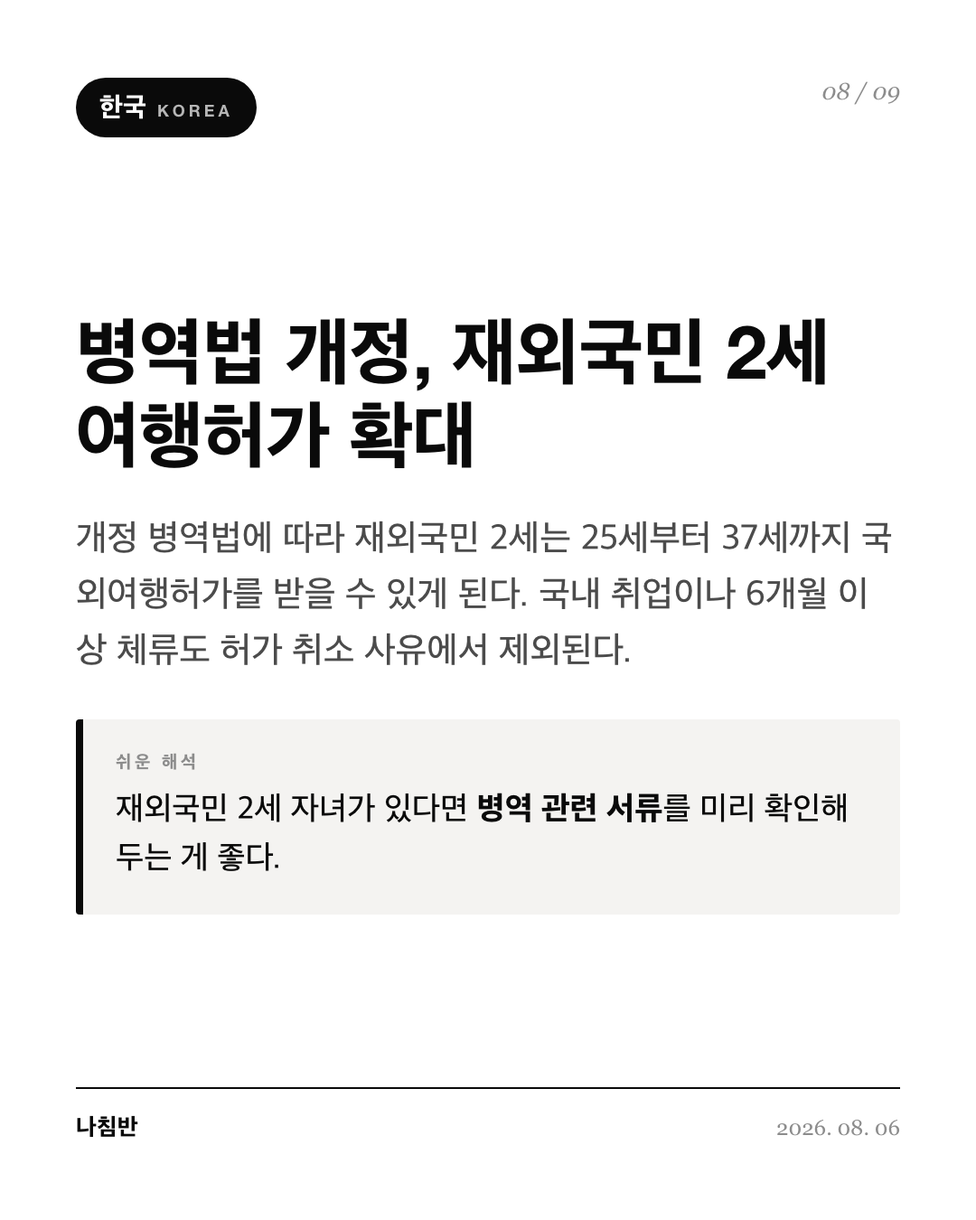
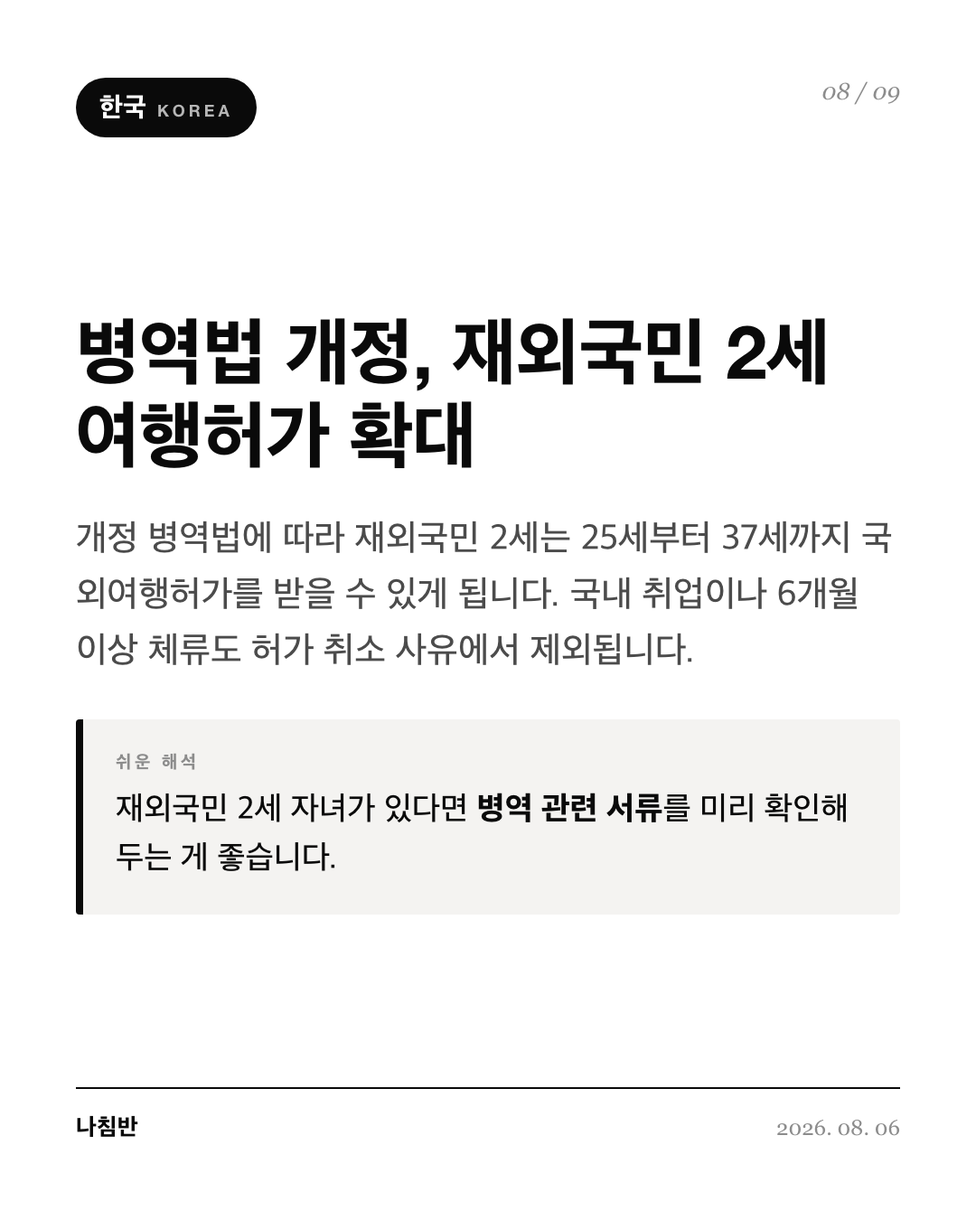
말투 존댓말 통일(9호 변환) + SKILL에 존댓말 규칙·길이 복원(desc 95~135자)
- 기사체(~했다·~된다·~이다) → 존댓말(~했습니다·~됩니다·~입니다) 통일
- 원인: SKILL에 말투 규정 없어 호마다 문체 표류. 길이는 7/31 카드균일화 상한 탓에 축소됨
- 9호는 오늘 오늘분이라 말투만 변환(길이 복원은 다음 호부터)

Changed region(s): [[0.0917, 0.4667, 0.8861, 0.56], [0.2444, 0.6844, 0.3361, 0.7156]]

diff --git a/site/archive/9.html b/site/archive/9.html
@@ -73,8 +73,8 @@
         <div class="thumb g4-4"><span class="ph">Sample</span></div>
         <div class="hot-line">Must read</div>
         <h3>라인강 사상 최저 수위, 화물선 운항 중단</h3>
-        <p class="desc">라인강 마우아우 관측소 수위가 3.03미터로 사상 최저치를 기록했다. 쾰른·카를스루에 항구는 8월 9일까지 운항을 중단했고 화물 적재량도 3분의 1로 제한됐다.</p>
-        <div class="interp"><span class="il">현지 한인에게</span><p>물류 차질로 <b>연료·생필품 가격</b>이 오를 수 있다. 당분간 물가 변동을 확인하는 게 좋다.</p></div>
+        <p class="desc">라인강 마우아우 관측소 수위가 3.03미터로 사상 최저치를 기록했습니다. 쾰른·카를스루에 항구는 8월 9일까지 운항을 중단했고 화물 적재량도 3분의 1로 제한됐습니다.</p>
+        <div class="interp"><span class="il">현지 한인에게</span><p>물류 차질로 <b>연료·생필품 가격</b>이 오를 수 있습니다. 당분간 물가 변동을 확인하는 게 좋습니다.</p></div>
         <div class="m-bot"><span><span class="lb">Source</span>카를스루에 지역지(ka-news)</span><span><span class="lb">Read</span>3 min</span><button class="shr" type="button" aria-label="이 소식 공유하기" title="공유하기" onclick="nbShare(this)" data-h="라인강 사상 최저 수위, 화물선 운항 중단"><svg viewBox="0 0 24 24" fill="none" stroke="currentColor" stroke-width="2" stroke-linecap="round" stroke-linejoin="round"><circle cx="18" cy="5" r="3"/><circle cx="6" cy="12" r="3"/><circle cx="18" cy="19" r="3"/><path d="M8.6 13.5l6.8 4M15.4 6.5l-6.8 4"/></svg></button><a class="readmore" href="https://www.ka-news.de/karlsruhe/karlsruhe-rhein-niedrigwasser-erreicht-historischen-tiefstand-114957248" target="_blank" rel="noopener noreferrer"><span class="arrow">↗</span>read more</a></div>
       </article>
 
@@ -82,8 +82,8 @@
         <div class="m-top"><span class="date">2026.08.06</span><span class="tag">주요뉴스 <em>TOP STORY</em></span></div>
         <div class="thumb g4-5"><span class="ph">Sample</span></div>
         <h3>메르츠 총리 지지율, 1998년 이후 최저</h3>
-        <p class="desc">RTL·ntv 여론조사에서 메르츠 총리 지지율이 20%로 떨어져 1998년 조사 이래 최저치를 기록했다. 불만족 응답은 78%에 달했다.</p>
-        <div class="interp"><span class="il">현지 한인에게</span><p><b>연정 갈등</b>이 계속되며 정국 불안정이 이어지고 있다. 관련 정책 변화를 지켜봐야 한다.</p></div>
+        <p class="desc">RTL·ntv 여론조사에서 메르츠 총리 지지율이 20%로 떨어져 1998년 조사 이래 최저치를 기록했습니다. 불만족 응답은 78%에 달했습니다.</p>
+        <div class="interp"><span class="il">현지 한인에게</span><p><b>연정 갈등</b>이 계속되며 정국 불안정이 이어지고 있습니다. 관련 정책 변화를 지켜봐야 합니다.</p></div>
         <div class="m-bot"><span><span class="lb">Source</span>ad-hoc-news</span><span><span class="lb">Read</span>3 min</span><button class="shr" type="button" aria-label="이 소식 공유하기" title="공유하기" onclick="nbShare(this)" data-h="메르츠 총리 지지율, 1998년 이후 최저"><svg viewBox="0 0 24 24" fill="none" stroke="currentColor" stroke-width="2" stroke-linecap="round" stroke-linejoin="round"><circle cx="18" cy="5" r="3"/><circle cx="6" cy="12" r="3"/><circle cx="18" cy="19" r="3"/><path d="M8.6 13.5l6.8 4M15.4 6.5l-6.8 4"/></svg></button><a class="readmore" href="https://www.ad-hoc-news.de/boerse/news/ueberblick/unzufriedenheit-mit-kanzler-merz-auf-allzeithoch-afd-holt-cdu-csu-in/69097458" target="_blank" rel="noopener noreferrer"><span class="arrow">↗</span>read more</a></div>
       </article>
 
@@ -91,8 +91,8 @@
         <div class="m-top"><span class="date">2026.08.06</span><span class="tag">가상자산 <em>CRYPTO</em></span></div>
         <div class="thumb g10-2"><span class="ph">Sample</span></div>
         <h3>비트코인 비과세 폐지 반대 청원, 청문회 확정</h3>
-        <p class="desc">비트코인 등 가상자산의 1년 보유 후 비과세 혜택 폐지에 반대하는 연방의회 청원이 3만 명 서명을 넘겼다. 의회는 공개 청문회를 열어야 한다.</p>
-        <div class="interp"><span class="il">쉬운 해석 — 법률 해설가</span><p>독일에서 <b>가상자산을 장기 보유</b>하고 있다면 세제 논의를 주시하세요. 아직 확정된 변경은 아니다.</p></div>
+        <p class="desc">비트코인 등 가상자산의 1년 보유 후 비과세 혜택 폐지에 반대하는 연방의회 청원이 3만 명 서명을 넘겼습니다. 의회는 공개 청문회를 열어야 합니다.</p>
+        <div class="interp"><span class="il">쉬운 해석 — 법률 해설가</span><p>독일에서 <b>가상자산을 장기 보유</b>하고 있다면 세제 논의를 주시하세요. 아직 확정된 변경은 아닙니다.</p></div>
         <div class="m-bot"><span><span class="lb">Source</span>Handelsblatt</span><span><span class="lb">Read</span>3 min</span><button class="shr" type="button" aria-label="이 소식 공유하기" title="공유하기" onclick="nbShare(this)" data-h="비트코인 비과세 폐지 반대 청원, 청문회 확정"><svg viewBox="0 0 24 24" fill="none" stroke="currentColor" stroke-width="2" stroke-linecap="round" stroke-linejoin="round"><circle cx="18" cy="5" r="3"/><circle cx="6" cy="12" r="3"/><circle cx="18" cy="19" r="3"/><path d="M8.6 13.5l6.8 4M15.4 6.5l-6.8 4"/></svg></button><a class="readmore" href="https://www.handelsblatt.com/technik/it-internet/umstrittene-haltefrist-bundestags-petition-gegen-krypto-steuerplaene-erfolgreich/100245373.html" target="_blank" rel="noopener noreferrer"><span class="arrow">↗</span>read more</a></div>
       </article>
 
@@ -100,8 +100,8 @@
         <div class="m-top"><span class="date">2026.08.06</span><span class="tag">법·제도 <em>POLICY</em></span></div>
         <div class="thumb g4-6"><span class="ph">Sample</span></div>
         <h3>내무장관, 소년법 개정 추진 표명</h3>
-        <p class="desc">도브린트 내무장관이 CSD 테러 이후 소년법 개정을 추진하겠다고 밝혔다. 위험인물에 대한 예방적 구금과 전자발찌 착용 등을 검토 중이다.</p>
-        <div class="interp"><span class="il">쉬운 해석 — 법률 해설가</span><p>아직 <b>법안 발의 전 단계</b>다. 확정되면 다시 안내하겠다.</p></div>
+        <p class="desc">도브린트 내무장관이 CSD 테러 이후 소년법 개정을 추진하겠다고 밝혔습니다. 위험인물에 대한 예방적 구금과 전자발찌 착용 등을 검토 중입니다.</p>
+        <div class="interp"><span class="il">쉬운 해석 — 법률 해설가</span><p>아직 <b>법안 발의 전 단계</b>입니다. 확정되면 다시 안내하겠습니다.</p></div>
         <div class="m-bot"><span><span class="lb">Source</span>it-boltwise</span><span><span class="lb">Read</span>3 min</span><button class="shr" type="button" aria-label="이 소식 공유하기" title="공유하기" onclick="nbShare(this)" data-h="내무장관, 소년법 개정 추진 표명"><svg viewBox="0 0 24 24" fill="none" stroke="currentColor" stroke-width="2" stroke-linecap="round" stroke-linejoin="round"><circle cx="18" cy="5" r="3"/><circle cx="6" cy="12" r="3"/><circle cx="18" cy="19" r="3"/><path d="M8.6 13.5l6.8 4M15.4 6.5l-6.8 4"/></svg></button><a class="readmore" href="https://www.it-boltwise.de/dobrindt-will-jugendstrafrecht-reformieren-praeventivhaft-und-elektronische-fussfesseln.html" target="_blank" rel="noopener noreferrer"><span class="arrow">↗</span>read more</a></div>
       </article>
 
@@ -117,8 +117,8 @@
         <div class="thumb g4-1"><span class="ph">Sample</span></div>
         <div class="hot-line">For expats</div>
         <h3>6월 경상수지 사상 최대, 수출 첫 1000억달러</h3>
-        <p class="desc">한국은행이 발표한 6월 경상수지가 497억3000만달러 흑자로 두 달 연속 역대 최대를 기록했다. 수출도 처음으로 1000억달러를 넘어섰다.</p>
-        <div class="interp"><span class="il">현지 한인에게</span><p><b>반도체 수출 호조</b>가 이끈 결과다. 원화 자산·환율에도 우호적인 신호다.</p></div>
+        <p class="desc">한국은행이 발표한 6월 경상수지가 497억3000만달러 흑자로 두 달 연속 역대 최대를 기록했습니다. 수출도 처음으로 1000억달러를 넘어섰습니다.</p>
+        <div class="interp"><span class="il">현지 한인에게</span><p><b>반도체 수출 호조</b>가 이끈 결과입니다. 원화 자산·환율에도 우호적인 신호입니다.</p></div>
         <div class="m-bot"><span><span class="lb">Source</span>이투데이</span><span><span class="lb">Read</span>3 min</span><button class="shr" type="button" aria-label="이 소식 공유하기" title="공유하기" onclick="nbShare(this)" data-h="6월 경상수지 사상 최대, 수출 첫 1000억달러"><svg viewBox="0 0 24 24" fill="none" stroke="currentColor" stroke-width="2" stroke-linecap="round" stroke-linejoin="round"><circle cx="18" cy="5" r="3"/><circle cx="6" cy="12" r="3"/><circle cx="18" cy="19" r="3"/><path d="M8.6 13.5l6.8 4M15.4 6.5l-6.8 4"/></svg></button><a class="readmore" href="https://www.etoday.co.kr/news/view/2611523" target="_blank" rel="noopener noreferrer"><span class="arrow">↗</span>read more</a></div>
       </article>
 
@@ -126,8 +126,8 @@
         <div class="m-top"><span class="date">2026.08.06</span><span class="tag">국적·병역 <em>CITIZEN</em></span></div>
         <div class="thumb g1-4"><span class="ph">Sample</span></div>
         <h3>병역법 개정, 재외국민 2세 여행허가 확대</h3>
-        <p class="desc">개정 병역법에 따라 재외국민 2세는 25세부터 37세까지 국외여행허가를 받을 수 있게 된다. 국내 취업이나 6개월 이상 체류도 허가 취소 사유에서 제외된다.</p>
-        <div class="interp"><span class="il">쉬운 해석 — 법률 해설가</span><p>재외국민 2세 자녀가 있다면 <b>병역 관련 서류</b>를 미리 확인해두는 게 좋다.</p></div>
+        <p class="desc">개정 병역법에 따라 재외국민 2세는 25세부터 37세까지 국외여행허가를 받을 수 있게 됩니다. 국내 취업이나 6개월 이상 체류도 허가 취소 사유에서 제외됩니다.</p>
+        <div class="interp"><span class="il">쉬운 해석 — 법률 해설가</span><p>재외국민 2세 자녀가 있다면 <b>병역 관련 서류</b>를 미리 확인해두는 게 좋습니다.</p></div>
         <div class="m-bot"><span><span class="lb">Source</span>찾기쉬운 생활법령정보</span><span><span class="lb">Read</span>3 min</span><button class="shr" type="button" aria-label="이 소식 공유하기" title="공유하기" onclick="nbShare(this)" data-h="병역법 개정, 재외국민 2세 여행허가 확대"><svg viewBox="0 0 24 24" fill="none" stroke="currentColor" stroke-width="2" stroke-linecap="round" stroke-linejoin="round"><circle cx="18" cy="5" r="3"/><circle cx="6" cy="12" r="3"/><circle cx="18" cy="19" r="3"/><path d="M8.6 13.5l6.8 4M15.4 6.5l-6.8 4"/></svg></button><a class="readmore" href="https://www.easylaw.go.kr/CSP/CnpClsMain.laf?csmSeq=1698&ccfNo=4&cciNo=1&cnpClsNo=1" target="_blank" rel="noopener noreferrer"><span class="arrow">↗</span>read more</a></div>
       </article>
 
@@ -135,7 +135,7 @@
         <div class="m-top"><span class="date">2026.08.06</span><span class="tag">생활 <em>LIFE</em></span></div>
         <div class="thumb g5-2"><span class="ph">Sample</span></div>
         <h3>폭염중대경보 확대, 광양까지 포함</h3>
-        <p class="desc">서울 등 수도권과 전남 광양에 폭염중대경보가 발효돼 낮 최고기온이 39도에 달했다. 필수 업무 외 야외활동은 중단이 권고된다.</p>
+        <p class="desc">서울 등 수도권과 전남 광양에 폭염중대경보가 발효돼 낮 최고기온이 39도에 달했습니다. 필수 업무 외 야외활동은 중단이 권고됩니다.</p>
         <div class="interp"><span class="il">쉬운 해석 — 법률 해설가</span><p>귀국 예정이라면 <b>폭염 대비용품</b>을 챙기고 야외 일정을 조정하세요.</p></div>
         <div class="m-bot"><span><span class="lb">Source</span>파이낸셜뉴스</span><span><span class="lb">Read</span>3 min</span><button class="shr" type="button" aria-label="이 소식 공유하기" title="공유하기" onclick="nbShare(this)" data-h="폭염중대경보 확대, 광양까지 포함"><svg viewBox="0 0 24 24" fill="none" stroke="currentColor" stroke-width="2" stroke-linecap="round" stroke-linejoin="round"><circle cx="18" cy="5" r="3"/><circle cx="6" cy="12" r="3"/><circle cx="18" cy="19" r="3"/><path d="M8.6 13.5l6.8 4M15.4 6.5l-6.8 4"/></svg></button><a class="readmore" href="https://www.fnnews.com/news/202608060630492824" target="_blank" rel="noopener noreferrer"><span class="arrow">↗</span>read more</a></div>
       </article>
@@ -152,8 +152,8 @@
         <div class="thumb g4-2"><span class="ph">Sample</span></div>
         <div class="hot-line">Must read</div>
         <h3>AI법 투명성 규정 시행, 챗봇 표시 의무화</h3>
-        <p class="desc">8월 2일부터 EU AI법의 투명성 규정이 시행됐다. 챗봇은 AI임을 밝혀야 하고 딥페이크·AI 생성물에는 표시를 달아야 한다.</p>
-        <div class="interp"><span class="il">현지 한인에게</span><p>EU 거주자라면 <b>AI 챗봇·이미지</b> 이용 시 표시 여부를 확인할 수 있다.</p></div>
+        <p class="desc">8월 2일부터 EU AI법의 투명성 규정이 시행됐습니다. 챗봇은 AI임을 밝혀야 하고 딥페이크·AI 생성물에는 표시를 달아야 합니다.</p>
+        <div class="interp"><span class="il">현지 한인에게</span><p>EU 거주자라면 <b>AI 챗봇·이미지</b> 이용 시 표시 여부를 확인할 수 있습니다.</p></div>
         <div class="m-bot"><span><span class="lb">Source</span>유럽연합 집행위원회</span><span><span class="lb">Read</span>3 min</span><button class="shr" type="button" aria-label="이 소식 공유하기" title="공유하기" onclick="nbShare(this)" data-h="AI법 투명성 규정 시행, 챗봇 표시 의무화"><svg viewBox="0 0 24 24" fill="none" stroke="currentColor" stroke-width="2" stroke-linecap="round" stroke-linejoin="round"><circle cx="18" cy="5" r="3"/><circle cx="6" cy="12" r="3"/><circle cx="18" cy="19" r="3"/><path d="M8.6 13.5l6.8 4M15.4 6.5l-6.8 4"/></svg></button><a class="readmore" href="https://digital-strategy.ec.europa.eu/en/news/commission-starts-enforcing-ai-act-rules-and-new-transparency-requirements-2-august" target="_blank" rel="noopener noreferrer"><span class="arrow">↗</span>read more</a></div>
       </article>
 
@@ -161,8 +161,8 @@
         <div class="m-top"><span class="date">2026.08.06</span><span class="tag">법·제도 <em>POLICY</em></span></div>
         <div class="thumb g4-3"><span class="ph">Sample</span></div>
         <h3>ETIAS 출시 목표 철회, 2027년으로 밀릴 듯</h3>
-        <p class="desc">EU가 올해 4분기로 예고했던 ETIAS 출시 목표를 공식 페이지에서 삭제했다. eu-LISA 9월 이사회 이후 2027년 시행이 유력하다.</p>
-        <div class="interp"><span class="il">쉬운 해석 — 법률 해설가</span><p>이번 겨울까지는 <b>ETIAS 없이</b> 기존 방식으로 유럽 입국이 가능할 전망이다.</p></div>
+        <p class="desc">EU가 올해 4분기로 예고했던 ETIAS 출시 목표를 공식 페이지에서 삭제했습니다. eu-LISA 9월 이사회 이후 2027년 시행이 유력합니다.</p>
+        <div class="interp"><span class="il">쉬운 해석 — 법률 해설가</span><p>이번 겨울까지는 <b>ETIAS 없이</b> 기존 방식으로 유럽 입국이 가능할 전망입니다.</p></div>
         <div class="m-bot"><span><span class="lb">Source</span>etias.com</span><span><span class="lb">Read</span>3 min</span><button class="shr" type="button" aria-label="이 소식 공유하기" title="공유하기" onclick="nbShare(this)" data-h="ETIAS 출시 목표 철회, 2027년으로 밀릴 듯"><svg viewBox="0 0 24 24" fill="none" stroke="currentColor" stroke-width="2" stroke-linecap="round" stroke-linejoin="round"><circle cx="18" cy="5" r="3"/><circle cx="6" cy="12" r="3"/><circle cx="18" cy="19" r="3"/><path d="M8.6 13.5l6.8 4M15.4 6.5l-6.8 4"/></svg></button><a class="readmore" href="https://etias.com/articles/etias-drops-2026-date-as-launch-slips-out-of-view" target="_blank" rel="noopener noreferrer"><span class="arrow">↗</span>read more</a></div>
       </article>
 
@@ -170,8 +170,8 @@
         <div class="m-top"><span class="date">2026.08.06</span><span class="tag">투자 <em>INVEST</em></span></div>
         <div class="thumb g10-3"><span class="ph">Sample</span></div>
         <h3>반도체주 강세, 유럽증시 최고치 행진</h3>
-        <p class="desc">인피니언·ASML 등 반도체주 강세에 힘입어 스톡스600지수가 656.86으로 다시 최고치를 갈아치웠다. 올해 상승률은 10%에 달한다.</p>
-        <div class="interp"><span class="il">쉬운 해석 — 법률 해설가</span><p>유럽 증시에 투자 중이라면 <b>반도체 관련주</b> 비중을 점검해볼 만하다.</p></div>
+        <p class="desc">인피니언·ASML 등 반도체주 강세에 힘입어 스톡스600지수가 656.86으로 다시 최고치를 갈아치웠습니다. 올해 상승률은 10%에 달합니다.</p>
+        <div class="interp"><span class="il">쉬운 해석 — 법률 해설가</span><p>유럽 증시에 투자 중이라면 <b>반도체 관련주</b> 비중을 점검해볼 만합니다.</p></div>
         <div class="m-bot"><span><span class="lb">Source</span>CNBC</span><span><span class="lb">Read</span>3 min</span><button class="shr" type="button" aria-label="이 소식 공유하기" title="공유하기" onclick="nbShare(this)" data-h="반도체주 강세, 유럽증시 최고치 행진"><svg viewBox="0 0 24 24" fill="none" stroke="currentColor" stroke-width="2" stroke-linecap="round" stroke-linejoin="round"><circle cx="18" cy="5" r="3"/><circle cx="6" cy="12" r="3"/><circle cx="18" cy="19" r="3"/><path d="M8.6 13.5l6.8 4M15.4 6.5l-6.8 4"/></svg></button><a class="readmore" href="https://www.cnbc.com/2026/08/05/stoxx-600-record-leaders-laggards-markets.html" target="_blank" rel="noopener noreferrer"><span class="arrow">↗</span>read more</a></div>
       </article>
 
@@ -187,7 +187,7 @@
         <div class="thumb g4-4"><span class="ph">Sample</span></div>
         <div class="hot-line">Must read</div>
         <h3>서부 폭염돔 지속, 사망자 70명</h3>
-        <p class="desc">미국 서부를 뒤덮은 폭염돔으로 7월 이후 사망자가 최소 70명에 달한다. 애리조나·워싱턴 등에서는 산불 위험도 함께 커지고 있다.</p>
+        <p class="desc">미국 서부를 뒤덮은 폭염돔으로 7월 이후 사망자가 최소 70명에 달합니다. 애리조나·워싱턴 등에서는 산불 위험도 함께 커지고 있습니다.</p>
         <div class="interp"><span class="il">현지 한인에게</span><p>서부 지역 방문 예정이라면 <b>폭염 경보</b>와 산불 상황을 미리 확인하세요.</p></div>
         <div class="m-bot"><span><span class="lb">Source</span>Washington Post</span><span><span class="lb">Read</span>3 min</span><button class="shr" type="button" aria-label="이 소식 공유하기" title="공유하기" onclick="nbShare(this)" data-h="서부 폭염돔 지속, 사망자 70명"><svg viewBox="0 0 24 24" fill="none" stroke="currentColor" stroke-width="2" stroke-linecap="round" stroke-linejoin="round"><circle cx="18" cy="5" r="3"/><circle cx="6" cy="12" r="3"/><circle cx="18" cy="19" r="3"/><path d="M8.6 13.5l6.8 4M15.4 6.5l-6.8 4"/></svg></button><a class="readmore" href="https://www.washingtonpost.com/weather/2026/07/26/this-months-heat-domes-killed-least-70-people-us-post-analysis-finds/" target="_blank" rel="noopener noreferrer"><span class="arrow">↗</span>read more</a></div>
       </article>
@@ -196,8 +196,8 @@
         <div class="m-top"><span class="date">2026.08.06</span><span class="tag">투자 <em>INVEST</em></span></div>
         <div class="thumb g10-4"><span class="ph">Sample</span></div>
         <h3>연준 금리 동결, 이례적 3명 인상 소수의견</h3>
-        <p class="desc">연준이 기준금리를 3.50~3.75%로 5회 연속 동결했다. 신임 워시 의장 체제에서 최다인 3명이 인상 소수의견을 냈다.</p>
-        <div class="interp"><span class="il">쉬운 해석 — 법률 해설가</span><p>달러 예금·송금 계획이 있다면 <b>금리 동향</b>을 계속 지켜보는 게 좋다.</p></div>
+        <p class="desc">연준이 기준금리를 3.50~3.75%로 5회 연속 동결했습니다. 신임 워시 의장 체제에서 최다인 3명이 인상 소수의견을 냈습니다.</p>
+        <div class="interp"><span class="il">쉬운 해석 — 법률 해설가</span><p>달러 예금·송금 계획이 있다면 <b>금리 동향</b>을 계속 지켜보는 게 좋습니다.</p></div>
         <div class="m-bot"><span><span class="lb">Source</span>Bloomberg</span><span><span class="lb">Read</span>3 min</span><button class="shr" type="button" aria-label="이 소식 공유하기" title="공유하기" onclick="nbShare(this)" data-h="연준 금리 동결, 이례적 3명 인상 소수의견"><svg viewBox="0 0 24 24" fill="none" stroke="currentColor" stroke-width="2" stroke-linecap="round" stroke-linejoin="round"><circle cx="18" cy="5" r="3"/><circle cx="6" cy="12" r="3"/><circle cx="18" cy="19" r="3"/><path d="M8.6 13.5l6.8 4M15.4 6.5l-6.8 4"/></svg></button><a class="readmore" href="https://www.bloomberg.com/news/articles/2026-07-29/fed-holds-rates-steady-three-officials-dissent-favoring-a-hike" target="_blank" rel="noopener noreferrer"><span class="arrow">↗</span>read more</a></div>
       </article>
 
@@ -205,7 +205,7 @@
         <div class="m-top"><span class="date">2026.08.06</span><span class="tag">주식 <em>STOCKS</em></span></div>
         <div class="thumb g10-1"><span class="ph">Sample</span></div>
         <h3>스페이스X 락업 해제, 매도 물량 우려</h3>
-        <p class="desc">8월 6일 스페이스X 주식 1010억달러어치가 매도 제한에서 풀린다. 9단계로 나뉜 이번 락업 해제로 최대 9억1150만 주가 시장에 나올 수 있다.</p>
+        <p class="desc">8월 6일 스페이스X 주식 1010억달러어치가 매도 제한에서 풀립니다. 9단계로 나뉜 이번 락업 해제로 최대 9억1150만 주가 시장에 나올 수 있습니다.</p>
         <div class="interp"><span class="il">쉬운 해석 — 법률 해설가</span><p>스페이스X 관련 <b>투자 상품</b>을 보유 중이라면 단기 변동성에 유의하세요.</p></div>
         <div class="m-bot"><span><span class="lb">Source</span>Bloomberg</span><span><span class="lb">Read</span>3 min</span><button class="shr" type="button" aria-label="이 소식 공유하기" title="공유하기" onclick="nbShare(this)" data-h="스페이스X 락업 해제, 매도 물량 우려"><svg viewBox="0 0 24 24" fill="none" stroke="currentColor" stroke-width="2" stroke-linecap="round" stroke-linejoin="round"><circle cx="18" cy="5" r="3"/><circle cx="6" cy="12" r="3"/><circle cx="18" cy="19" r="3"/><path d="M8.6 13.5l6.8 4M15.4 6.5l-6.8 4"/></svg></button><a class="readmore" href="https://www.bloomberg.com/news/articles/2026-08-05/spacex-s-101-billion-unlock-heaps-pressure-on-battered-shares" target="_blank" rel="noopener noreferrer"><span class="arrow">↗</span>read more</a></div>
       </article>
@@ -222,7 +222,7 @@
         <div class="thumb g4-5"><span class="ph">Sample</span></div>
         <div class="hot-line">Must read</div>
         <h3>구마모토 지진 복구 지연, 사망 36명</h3>
-        <p class="desc">구마모토 지진 사망자가 36명으로 늘었고 6만9000여 가구는 여전히 단수 상태다. 신칸센 일부 구간은 8월 내 복구가 어려울 전망이다.</p>
+        <p class="desc">구마모토 지진 사망자가 36명으로 늘었고 6만9000여 가구는 여전히 단수 상태입니다. 신칸센 일부 구간은 8월 내 복구가 어려울 전망입니다.</p>
         <div class="interp"><span class="il">현지 한인에게</span><p>구마모토 방문 예정이라면 <b>교통·상수도</b> 상황을 미리 확인하세요.</p></div>
         <div class="m-bot"><span><span class="lb">Source</span>뉴시스</span><span><span class="lb">Read</span>3 min</span><button class="shr" type="button" aria-label="이 소식 공유하기" title="공유하기" onclick="nbShare(this)" data-h="구마모토 지진 복구 지연, 사망 36명"><svg viewBox="0 0 24 24" fill="none" stroke="currentColor" stroke-width="2" stroke-linecap="round" stroke-linejoin="round"><circle cx="18" cy="5" r="3"/><circle cx="6" cy="12" r="3"/><circle cx="18" cy="19" r="3"/><path d="M8.6 13.5l6.8 4M15.4 6.5l-6.8 4"/></svg></button><a class="readmore" href="https://www.newsis.com/view/NISX20260801_0003732767" target="_blank" rel="noopener noreferrer"><span class="arrow">↗</span>read more</a></div>
       </article>
@@ -231,7 +231,7 @@
         <div class="m-top"><span class="date">2026.08.06</span><span class="tag">여행 <em>TRAVEL</em></span></div>
         <div class="thumb g9-2"><span class="ph">Sample</span></div>
         <h3>스페인 공항 파업 확대, 200만명 영향</h3>
-        <p class="desc">바르셀로나·팔마 공항 지상직 파업이 무기한으로 확대됐다. 9월 말까지 최대 200만 명의 승객이 영향을 받을 수 있다.</p>
+        <p class="desc">바르셀로나·팔마 공항 지상직 파업이 무기한으로 확대됐습니다. 9월 말까지 최대 200만 명의 승객이 영향을 받을 수 있습니다.</p>
         <div class="interp"><span class="il">쉬운 해석 — 법률 해설가</span><p>스페인 여행 계획이 있다면 <b>항공편 변동</b> 여부를 수시로 확인하세요.</p></div>
         <div class="m-bot"><span><span class="lb">Source</span>AirHelp</span><span><span class="lb">Read</span>3 min</span><button class="shr" type="button" aria-label="이 소식 공유하기" title="공유하기" onclick="nbShare(this)" data-h="스페인 공항 파업 확대, 200만명 영향"><svg viewBox="0 0 24 24" fill="none" stroke="currentColor" stroke-width="2" stroke-linecap="round" stroke-linejoin="round"><circle cx="18" cy="5" r="3"/><circle cx="6" cy="12" r="3"/><circle cx="18" cy="19" r="3"/><path d="M8.6 13.5l6.8 4M15.4 6.5l-6.8 4"/></svg></button><a class="readmore" href="https://www.airhelp.com/en/flight-disruptions/spain-ground-handling-strikes-barcelona-palma-30072026/" target="_blank" rel="noopener noreferrer"><span class="arrow">↗</span>read more</a></div>
       </article>
@@ -240,7 +240,7 @@
         <div class="m-top"><span class="date">2026.08.06</span><span class="tag">여행 <em>TRAVEL</em></span></div>
         <div class="thumb g9-3"><span class="ph">Sample</span></div>
         <h3>태풍 9호 바비, 오키나와 10~11일 영향</h3>
-        <p class="desc">태풍 바비가 마리아나 제도를 통과해 서북서진 중이다. 10~11일에는 오키나와 지역에 높은 파도와 너울이 예상된다.</p>
+        <p class="desc">태풍 바비가 마리아나 제도를 통과해 서북서진 중입니다. 10~11일에는 오키나와 지역에 높은 파도와 너울이 예상됩니다.</p>
         <div class="interp"><span class="il">쉬운 해석 — 법률 해설가</span><p>오키나와 등 일본 남부 여행 예정이라면 <b>태풍 경로</b>를 계속 확인하세요.</p></div>
         <div class="m-bot"><span><span class="lb">Source</span>일본기상청 인용보도</span><span><span class="lb">Read</span>3 min</span><button class="shr" type="button" aria-label="이 소식 공유하기" title="공유하기" onclick="nbShare(this)" data-h="태풍 9호 바비, 오키나와 10~11일 영향"><svg viewBox="0 0 24 24" fill="none" stroke="currentColor" stroke-width="2" stroke-linecap="round" stroke-linejoin="round"><circle cx="18" cy="5" r="3"/><circle cx="6" cy="12" r="3"/><circle cx="18" cy="19" r="3"/><path d="M8.6 13.5l6.8 4M15.4 6.5l-6.8 4"/></svg></button><a class="readmore" href="https://www.lecturernews.com/news/articleView.html?idxno=205941" target="_blank" rel="noopener noreferrer"><span class="arrow">↗</span>read more</a></div>
       </article>

diff --git a/site/index.html b/site/index.html
@@ -72,8 +72,8 @@
         <div class="thumb g4-4"><span class="ph">Sample</span></div>
         <div class="hot-line">Must read</div>
         <h3>라인강 사상 최저 수위, 화물선 운항 중단</h3>
-        <p class="desc">라인강 마우아우 관측소 수위가 3.03미터로 사상 최저치를 기록했다. 쾰른·카를스루에 항구는 8월 9일까지 운항을 중단했고 화물 적재량도 3분의 1로 제한됐다.</p>
-        <div class="interp"><span class="il">현지 한인에게</span><p>물류 차질로 <b>연료·생필품 가격</b>이 오를 수 있다. 당분간 물가 변동을 확인하는 게 좋다.</p></div>
+        <p class="desc">라인강 마우아우 관측소 수위가 3.03미터로 사상 최저치를 기록했습니다. 쾰른·카를스루에 항구는 8월 9일까지 운항을 중단했고 화물 적재량도 3분의 1로 제한됐습니다.</p>
+        <div class="interp"><span class="il">현지 한인에게</span><p>물류 차질로 <b>연료·생필품 가격</b>이 오를 수 있습니다. 당분간 물가 변동을 확인하는 게 좋습니다.</p></div>
         <div class="m-bot"><span><span class="lb">Source</span>카를스루에 지역지(ka-news)</span><span><span class="lb">Read</span>3 min</span><button class="shr" type="button" aria-label="이 소식 공유하기" title="공유하기" onclick="nbShare(this)" data-h="라인강 사상 최저 수위, 화물선 운항 중단"><svg viewBox="0 0 24 24" fill="none" stroke="currentColor" stroke-width="2" stroke-linecap="round" stroke-linejoin="round"><circle cx="18" cy="5" r="3"/><circle cx="6" cy="12" r="3"/><circle cx="18" cy="19" r="3"/><path d="M8.6 13.5l6.8 4M15.4 6.5l-6.8 4"/></svg></button><a class="readmore" href="https://www.ka-news.de/karlsruhe/karlsruhe-rhein-niedrigwasser-erreicht-historischen-tiefstand-114957248" target="_blank" rel="noopener noreferrer"><span class="arrow">↗</span>read more</a></div>
       </article>
 
@@ -81,8 +81,8 @@
         <div class="m-top"><span class="date">2026.08.06</span><span class="tag">주요뉴스 <em>TOP STORY</em></span></div>
         <div class="thumb g4-5"><span class="ph">Sample</span></div>
         <h3>메르츠 총리 지지율, 1998년 이후 최저</h3>
-        <p class="desc">RTL·ntv 여론조사에서 메르츠 총리 지지율이 20%로 떨어져 1998년 조사 이래 최저치를 기록했다. 불만족 응답은 78%에 달했다.</p>
-        <div class="interp"><span class="il">현지 한인에게</span><p><b>연정 갈등</b>이 계속되며 정국 불안정이 이어지고 있다. 관련 정책 변화를 지켜봐야 한다.</p></div>
+        <p class="desc">RTL·ntv 여론조사에서 메르츠 총리 지지율이 20%로 떨어져 1998년 조사 이래 최저치를 기록했습니다. 불만족 응답은 78%에 달했습니다.</p>
+        <div class="interp"><span class="il">현지 한인에게</span><p><b>연정 갈등</b>이 계속되며 정국 불안정이 이어지고 있습니다. 관련 정책 변화를 지켜봐야 합니다.</p></div>
         <div class="m-bot"><span><span class="lb">Source</span>ad-hoc-news</span><span><span class="lb">Read</span>3 min</span><button class="shr" type="button" aria-label="이 소식 공유하기" title="공유하기" onclick="nbShare(this)" data-h="메르츠 총리 지지율, 1998년 이후 최저"><svg viewBox="0 0 24 24" fill="none" stroke="currentColor" stroke-width="2" stroke-linecap="round" stroke-linejoin="round"><circle cx="18" cy="5" r="3"/><circle cx="6" cy="12" r="3"/><circle cx="18" cy="19" r="3"/><path d="M8.6 13.5l6.8 4M15.4 6.5l-6.8 4"/></svg></button><a class="readmore" href="https://www.ad-hoc-news.de/boerse/news/ueberblick/unzufriedenheit-mit-kanzler-merz-auf-allzeithoch-afd-holt-cdu-csu-in/69097458" target="_blank" rel="noopener noreferrer"><span class="arrow">↗</span>read more</a></div>
       </article>
 
@@ -90,8 +90,8 @@
         <div class="m-top"><span class="date">2026.08.06</span><span class="tag">가상자산 <em>CRYPTO</em></span></div>
         <div class="thumb g10-2"><span class="ph">Sample</span></div>
         <h3>비트코인 비과세 폐지 반대 청원, 청문회 확정</h3>
-        <p class="desc">비트코인 등 가상자산의 1년 보유 후 비과세 혜택 폐지에 반대하는 연방의회 청원이 3만 명 서명을 넘겼다. 의회는 공개 청문회를 열어야 한다.</p>
-        <div class="interp"><span class="il">쉬운 해석 — 법률 해설가</span><p>독일에서 <b>가상자산을 장기 보유</b>하고 있다면 세제 논의를 주시하세요. 아직 확정된 변경은 아니다.</p></div>
+        <p class="desc">비트코인 등 가상자산의 1년 보유 후 비과세 혜택 폐지에 반대하는 연방의회 청원이 3만 명 서명을 넘겼습니다. 의회는 공개 청문회를 열어야 합니다.</p>
+        <div class="interp"><span class="il">쉬운 해석 — 법률 해설가</span><p>독일에서 <b>가상자산을 장기 보유</b>하고 있다면 세제 논의를 주시하세요. 아직 확정된 변경은 아닙니다.</p></div>
         <div class="m-bot"><span><span class="lb">Source</span>Handelsblatt</span><span><span class="lb">Read</span>3 min</span><button class="shr" type="button" aria-label="이 소식 공유하기" title="공유하기" onclick="nbShare(this)" data-h="비트코인 비과세 폐지 반대 청원, 청문회 확정"><svg viewBox="0 0 24 24" fill="none" stroke="currentColor" stroke-width="2" stroke-linecap="round" stroke-linejoin="round"><circle cx="18" cy="5" r="3"/><circle cx="6" cy="12" r="3"/><circle cx="18" cy="19" r="3"/><path d="M8.6 13.5l6.8 4M15.4 6.5l-6.8 4"/></svg></button><a class="readmore" href="https://www.handelsblatt.com/technik/it-internet/umstrittene-haltefrist-bundestags-petition-gegen-krypto-steuerplaene-erfolgreich/100245373.html" target="_blank" rel="noopener noreferrer"><span class="arrow">↗</span>read more</a></div>
       </article>
 
@@ -99,8 +99,8 @@
         <div class="m-top"><span class="date">2026.08.06</span><span class="tag">법·제도 <em>POLICY</em></span></div>
         <div class="thumb g4-6"><span class="ph">Sample</span></div>
         <h3>내무장관, 소년법 개정 추진 표명</h3>
-        <p class="desc">도브린트 내무장관이 CSD 테러 이후 소년법 개정을 추진하겠다고 밝혔다. 위험인물에 대한 예방적 구금과 전자발찌 착용 등을 검토 중이다.</p>
-        <div class="interp"><span class="il">쉬운 해석 — 법률 해설가</span><p>아직 <b>법안 발의 전 단계</b>다. 확정되면 다시 안내하겠다.</p></div>
+        <p class="desc">도브린트 내무장관이 CSD 테러 이후 소년법 개정을 추진하겠다고 밝혔습니다. 위험인물에 대한 예방적 구금과 전자발찌 착용 등을 검토 중입니다.</p>
+        <div class="interp"><span class="il">쉬운 해석 — 법률 해설가</span><p>아직 <b>법안 발의 전 단계</b>입니다. 확정되면 다시 안내하겠습니다.</p></div>
         <div class="m-bot"><span><span class="lb">Source</span>it-boltwise</span><span><span class="lb">Read</span>3 min</span><button class="shr" type="button" aria-label="이 소식 공유하기" title="공유하기" onclick="nbShare(this)" data-h="내무장관, 소년법 개정 추진 표명"><svg viewBox="0 0 24 24" fill="none" stroke="currentColor" stroke-width="2" stroke-linecap="round" stroke-linejoin="round"><circle cx="18" cy="5" r="3"/><circle cx="6" cy="12" r="3"/><circle cx="18" cy="19" r="3"/><path d="M8.6 13.5l6.8 4M15.4 6.5l-6.8 4"/></svg></button><a class="readmore" href="https://www.it-boltwise.de/dobrindt-will-jugendstrafrecht-reformieren-praeventivhaft-und-elektronische-fussfesseln.html" target="_blank" rel="noopener noreferrer"><span class="arrow">↗</span>read more</a></div>
       </article>
 
@@ -116,8 +116,8 @@
         <div class="thumb g4-1"><span class="ph">Sample</span></div>
         <div class="hot-line">For expats</div>
         <h3>6월 경상수지 사상 최대, 수출 첫 1000억달러</h3>
-        <p class="desc">한국은행이 발표한 6월 경상수지가 497억3000만달러 흑자로 두 달 연속 역대 최대를 기록했다. 수출도 처음으로 1000억달러를 넘어섰다.</p>
-        <div class="interp"><span class="il">현지 한인에게</span><p><b>반도체 수출 호조</b>가 이끈 결과다. 원화 자산·환율에도 우호적인 신호다.</p></div>
+        <p class="desc">한국은행이 발표한 6월 경상수지가 497억3000만달러 흑자로 두 달 연속 역대 최대를 기록했습니다. 수출도 처음으로 1000억달러를 넘어섰습니다.</p>
+        <div class="interp"><span class="il">현지 한인에게</span><p><b>반도체 수출 호조</b>가 이끈 결과입니다. 원화 자산·환율에도 우호적인 신호입니다.</p></div>
         <div class="m-bot"><span><span class="lb">Source</span>이투데이</span><span><span class="lb">Read</span>3 min</span><button class="shr" type="button" aria-label="이 소식 공유하기" title="공유하기" onclick="nbShare(this)" data-h="6월 경상수지 사상 최대, 수출 첫 1000억달러"><svg viewBox="0 0 24 24" fill="none" stroke="currentColor" stroke-width="2" stroke-linecap="round" stroke-linejoin="round"><circle cx="18" cy="5" r="3"/><circle cx="6" cy="12" r="3"/><circle cx="18" cy="19" r="3"/><path d="M8.6 13.5l6.8 4M15.4 6.5l-6.8 4"/></svg></button><a class="readmore" href="https://www.etoday.co.kr/news/view/2611523" target="_blank" rel="noopener noreferrer"><span class="arrow">↗</span>read more</a></div>
       </article>
 
@@ -125,8 +125,8 @@
         <div class="m-top"><span class="date">2026.08.06</span><span class="tag">국적·병역 <em>CITIZEN</em></span></div>
         <div class="thumb g1-4"><span class="ph">Sample</span></div>
         <h3>병역법 개정, 재외국민 2세 여행허가 확대</h3>
-        <p class="desc">개정 병역법에 따라 재외국민 2세는 25세부터 37세까지 국외여행허가를 받을 수 있게 된다. 국내 취업이나 6개월 이상 체류도 허가 취소 사유에서 제외된다.</p>
-        <div class="interp"><span class="il">쉬운 해석 — 법률 해설가</span><p>재외국민 2세 자녀가 있다면 <b>병역 관련 서류</b>를 미리 확인해두는 게 좋다.</p></div>
+        <p class="desc">개정 병역법에 따라 재외국민 2세는 25세부터 37세까지 국외여행허가를 받을 수 있게 됩니다. 국내 취업이나 6개월 이상 체류도 허가 취소 사유에서 제외됩니다.</p>
+        <div class="interp"><span class="il">쉬운 해석 — 법률 해설가</span><p>재외국민 2세 자녀가 있다면 <b>병역 관련 서류</b>를 미리 확인해두는 게 좋습니다.</p></div>
         <div class="m-bot"><span><span class="lb">Source</span>찾기쉬운 생활법령정보</span><span><span class="lb">Read</span>3 min</span><button class="shr" type="button" aria-label="이 소식 공유하기" title="공유하기" onclick="nbShare(this)" data-h="병역법 개정, 재외국민 2세 여행허가 확대"><svg viewBox="0 0 24 24" fill="none" stroke="currentColor" stroke-width="2" stroke-linecap="round" stroke-linejoin="round"><circle cx="18" cy="5" r="3"/><circle cx="6" cy="12" r="3"/><circle cx="18" cy="19" r="3"/><path d="M8.6 13.5l6.8 4M15.4 6.5l-6.8 4"/></svg></button><a class="readmore" href="https://www.easylaw.go.kr/CSP/CnpClsMain.laf?csmSeq=1698&ccfNo=4&cciNo=1&cnpClsNo=1" target="_blank" rel="noopener noreferrer"><span class="arrow">↗</span>read more</a></div>
       </article>
 
@@ -134,7 +134,7 @@
         <div class="m-top"><span class="date">2026.08.06</span><span class="tag">생활 <em>LIFE</em></span></div>
         <div class="thumb g5-2"><span class="ph">Sample</span></div>
         <h3>폭염중대경보 확대, 광양까지 포함</h3>
-        <p class="desc">서울 등 수도권과 전남 광양에 폭염중대경보가 발효돼 낮 최고기온이 39도에 달했다. 필수 업무 외 야외활동은 중단이 권고된다.</p>
+        <p class="desc">서울 등 수도권과 전남 광양에 폭염중대경보가 발효돼 낮 최고기온이 39도에 달했습니다. 필수 업무 외 야외활동은 중단이 권고됩니다.</p>
         <div class="interp"><span class="il">쉬운 해석 — 법률 해설가</span><p>귀국 예정이라면 <b>폭염 대비용품</b>을 챙기고 야외 일정을 조정하세요.</p></div>
         <div class="m-bot"><span><span class="lb">Source</span>파이낸셜뉴스</span><span><span class="lb">Read</span>3 min</span><button class="shr" type="button" aria-label="이 소식 공유하기" title="공유하기" onclick="nbShare(this)" data-h="폭염중대경보 확대, 광양까지 포함"><svg viewBox="0 0 24 24" fill="none" stroke="currentColor" stroke-width="2" stroke-linecap="round" stroke-linejoin="round"><circle cx="18" cy="5" r="3"/><circle cx="6" cy="12" r="3"/><circle cx="18" cy="19" r="3"/><path d="M8.6 13.5l6.8 4M15.4 6.5l-6.8 4"/></svg></button><a class="readmore" href="https://www.fnnews.com/news/202608060630492824" target="_blank" rel="noopener noreferrer"><span class="arrow">↗</span>read more</a></div>
       </article>
@@ -151,8 +151,8 @@
         <div class="thumb g4-2"><span class="ph">Sample</span></div>
         <div class="hot-line">Must read</div>
         <h3>AI법 투명성 규정 시행, 챗봇 표시 의무화</h3>
-        <p class="desc">8월 2일부터 EU AI법의 투명성 규정이 시행됐다. 챗봇은 AI임을 밝혀야 하고 딥페이크·AI 생성물에는 표시를 달아야 한다.</p>
-        <div class="interp"><span class="il">현지 한인에게</span><p>EU 거주자라면 <b>AI 챗봇·이미지</b> 이용 시 표시 여부를 확인할 수 있다.</p></div>
+        <p class="desc">8월 2일부터 EU AI법의 투명성 규정이 시행됐습니다. 챗봇은 AI임을 밝혀야 하고 딥페이크·AI 생성물에는 표시를 달아야 합니다.</p>
+        <div class="interp"><span class="il">현지 한인에게</span><p>EU 거주자라면 <b>AI 챗봇·이미지</b> 이용 시 표시 여부를 확인할 수 있습니다.</p></div>
         <div class="m-bot"><span><span class="lb">Source</span>유럽연합 집행위원회</span><span><span class="lb">Read</span>3 min</span><button class="shr" type="button" aria-label="이 소식 공유하기" title="공유하기" onclick="nbShare(this)" data-h="AI법 투명성 규정 시행, 챗봇 표시 의무화"><svg viewBox="0 0 24 24" fill="none" stroke="currentColor" stroke-width="2" stroke-linecap="round" stroke-linejoin="round"><circle cx="18" cy="5" r="3"/><circle cx="6" cy="12" r="3"/><circle cx="18" cy="19" r="3"/><path d="M8.6 13.5l6.8 4M15.4 6.5l-6.8 4"/></svg></button><a class="readmore" href="https://digital-strategy.ec.europa.eu/en/news/commission-starts-enforcing-ai-act-rules-and-new-transparency-requirements-2-august" target="_blank" rel="noopener noreferrer"><span class="arrow">↗</span>read more</a></div>
       </article>
 
@@ -160,8 +160,8 @@
         <div class="m-top"><span class="date">2026.08.06</span><span class="tag">법·제도 <em>POLICY</em></span></div>
         <div class="thumb g4-3"><span class="ph">Sample</span></div>
         <h3>ETIAS 출시 목표 철회, 2027년으로 밀릴 듯</h3>
-        <p class="desc">EU가 올해 4분기로 예고했던 ETIAS 출시 목표를 공식 페이지에서 삭제했다. eu-LISA 9월 이사회 이후 2027년 시행이 유력하다.</p>
-        <div class="interp"><span class="il">쉬운 해석 — 법률 해설가</span><p>이번 겨울까지는 <b>ETIAS 없이</b> 기존 방식으로 유럽 입국이 가능할 전망이다.</p></div>
+        <p class="desc">EU가 올해 4분기로 예고했던 ETIAS 출시 목표를 공식 페이지에서 삭제했습니다. eu-LISA 9월 이사회 이후 2027년 시행이 유력합니다.</p>
+        <div class="interp"><span class="il">쉬운 해석 — 법률 해설가</span><p>이번 겨울까지는 <b>ETIAS 없이</b> 기존 방식으로 유럽 입국이 가능할 전망입니다.</p></div>
         <div class="m-bot"><span><span class="lb">Source</span>etias.com</span><span><span class="lb">Read</span>3 min</span><button class="shr" type="button" aria-label="이 소식 공유하기" title="공유하기" onclick="nbShare(this)" data-h="ETIAS 출시 목표 철회, 2027년으로 밀릴 듯"><svg viewBox="0 0 24 24" fill="none" stroke="currentColor" stroke-width="2" stroke-linecap="round" stroke-linejoin="round"><circle cx="18" cy="5" r="3"/><circle cx="6" cy="12" r="3"/><circle cx="18" cy="19" r="3"/><path d="M8.6 13.5l6.8 4M15.4 6.5l-6.8 4"/></svg></button><a class="readmore" href="https://etias.com/articles/etias-drops-2026-date-as-launch-slips-out-of-view" target="_blank" rel="noopener noreferrer"><span class="arrow">↗</span>read more</a></div>
       </article>
 
@@ -169,8 +169,8 @@
         <div class="m-top"><span class="date">2026.08.06</span><span class="tag">투자 <em>INVEST</em></span></div>
         <div class="thumb g10-3"><span class="ph">Sample</span></div>
         <h3>반도체주 강세, 유럽증시 최고치 행진</h3>
-        <p class="desc">인피니언·ASML 등 반도체주 강세에 힘입어 스톡스600지수가 656.86으로 다시 최고치를 갈아치웠다. 올해 상승률은 10%에 달한다.</p>
-        <div class="interp"><span class="il">쉬운 해석 — 법률 해설가</span><p>유럽 증시에 투자 중이라면 <b>반도체 관련주</b> 비중을 점검해볼 만하다.</p></div>
+        <p class="desc">인피니언·ASML 등 반도체주 강세에 힘입어 스톡스600지수가 656.86으로 다시 최고치를 갈아치웠습니다. 올해 상승률은 10%에 달합니다.</p>
+        <div class="interp"><span class="il">쉬운 해석 — 법률 해설가</span><p>유럽 증시에 투자 중이라면 <b>반도체 관련주</b> 비중을 점검해볼 만합니다.</p></div>
         <div class="m-bot"><span><span class="lb">Source</span>CNBC</span><span><span class="lb">Read</span>3 min</span><button class="shr" type="button" aria-label="이 소식 공유하기" title="공유하기" onclick="nbShare(this)" data-h="반도체주 강세, 유럽증시 최고치 행진"><svg viewBox="0 0 24 24" fill="none" stroke="currentColor" stroke-width="2" stroke-linecap="round" stroke-linejoin="round"><circle cx="18" cy="5" r="3"/><circle cx="6" cy="12" r="3"/><circle cx="18" cy="19" r="3"/><path d="M8.6 13.5l6.8 4M15.4 6.5l-6.8 4"/></svg></button><a class="readmore" href="https://www.cnbc.com/2026/08/05/stoxx-600-record-leaders-laggards-markets.html" target="_blank" rel="noopener noreferrer"><span class="arrow">↗</span>read more</a></div>
       </article>
 
@@ -186,7 +186,7 @@
         <div class="thumb g4-4"><span class="ph">Sample</span></div>
         <div class="hot-line">Must read</div>
         <h3>서부 폭염돔 지속, 사망자 70명</h3>
-        <p class="desc">미국 서부를 뒤덮은 폭염돔으로 7월 이후 사망자가 최소 70명에 달한다. 애리조나·워싱턴 등에서는 산불 위험도 함께 커지고 있다.</p>
+        <p class="desc">미국 서부를 뒤덮은 폭염돔으로 7월 이후 사망자가 최소 70명에 달합니다. 애리조나·워싱턴 등에서는 산불 위험도 함께 커지고 있습니다.</p>
         <div class="interp"><span class="il">현지 한인에게</span><p>서부 지역 방문 예정이라면 <b>폭염 경보</b>와 산불 상황을 미리 확인하세요.</p></div>
         <div class="m-bot"><span><span class="lb">Source</span>Washington Post</span><span><span class="lb">Read</span>3 min</span><button class="shr" type="button" aria-label="이 소식 공유하기" title="공유하기" onclick="nbShare(this)" data-h="서부 폭염돔 지속, 사망자 70명"><svg viewBox="0 0 24 24" fill="none" stroke="currentColor" stroke-width="2" stroke-linecap="round" stroke-linejoin="round"><circle cx="18" cy="5" r="3"/><circle cx="6" cy="12" r="3"/><circle cx="18" cy="19" r="3"/><path d="M8.6 13.5l6.8 4M15.4 6.5l-6.8 4"/></svg></button><a class="readmore" href="https://www.washingtonpost.com/weather/2026/07/26/this-months-heat-domes-killed-least-70-people-us-post-analysis-finds/" target="_blank" rel="noopener noreferrer"><span class="arrow">↗</span>read more</a></div>
       </article>
@@ -195,8 +195,8 @@
         <div class="m-top"><span class="date">2026.08.06</span><span class="tag">투자 <em>INVEST</em></span></div>
         <div class="thumb g10-4"><span class="ph">Sample</span></div>
         <h3>연준 금리 동결, 이례적 3명 인상 소수의견</h3>
-        <p class="desc">연준이 기준금리를 3.50~3.75%로 5회 연속 동결했다. 신임 워시 의장 체제에서 최다인 3명이 인상 소수의견을 냈다.</p>
-        <div class="interp"><span class="il">쉬운 해석 — 법률 해설가</span><p>달러 예금·송금 계획이 있다면 <b>금리 동향</b>을 계속 지켜보는 게 좋다.</p></div>
+        <p class="desc">연준이 기준금리를 3.50~3.75%로 5회 연속 동결했습니다. 신임 워시 의장 체제에서 최다인 3명이 인상 소수의견을 냈습니다.</p>
+        <div class="interp"><span class="il">쉬운 해석 — 법률 해설가</span><p>달러 예금·송금 계획이 있다면 <b>금리 동향</b>을 계속 지켜보는 게 좋습니다.</p></div>
         <div class="m-bot"><span><span class="lb">Source</span>Bloomberg</span><span><span class="lb">Read</span>3 min</span><button class="shr" type="button" aria-label="이 소식 공유하기" title="공유하기" onclick="nbShare(this)" data-h="연준 금리 동결, 이례적 3명 인상 소수의견"><svg viewBox="0 0 24 24" fill="none" stroke="currentColor" stroke-width="2" stroke-linecap="round" stroke-linejoin="round"><circle cx="18" cy="5" r="3"/><circle cx="6" cy="12" r="3"/><circle cx="18" cy="19" r="3"/><path d="M8.6 13.5l6.8 4M15.4 6.5l-6.8 4"/></svg></button><a class="readmore" href="https://www.bloomberg.com/news/articles/2026-07-29/fed-holds-rates-steady-three-officials-dissent-favoring-a-hike" target="_blank" rel="noopener noreferrer"><span class="arrow">↗</span>read more</a></div>
       </article>
 
@@ -204,7 +204,7 @@
         <div class="m-top"><span class="date">2026.08.06</span><span class="tag">주식 <em>STOCKS</em></span></div>
         <div class="thumb g10-1"><span class="ph">Sample</span></div>
         <h3>스페이스X 락업 해제, 매도 물량 우려</h3>
-        <p class="desc">8월 6일 스페이스X 주식 1010억달러어치가 매도 제한에서 풀린다. 9단계로 나뉜 이번 락업 해제로 최대 9억1150만 주가 시장에 나올 수 있다.</p>
+        <p class="desc">8월 6일 스페이스X 주식 1010억달러어치가 매도 제한에서 풀립니다. 9단계로 나뉜 이번 락업 해제로 최대 9억1150만 주가 시장에 나올 수 있습니다.</p>
         <div class="interp"><span class="il">쉬운 해석 — 법률 해설가</span><p>스페이스X 관련 <b>투자 상품</b>을 보유 중이라면 단기 변동성에 유의하세요.</p></div>
         <div class="m-bot"><span><span class="lb">Source</span>Bloomberg</span><span><span class="lb">Read</span>3 min</span><button class="shr" type="button" aria-label="이 소식 공유하기" title="공유하기" onclick="nbShare(this)" data-h="스페이스X 락업 해제, 매도 물량 우려"><svg viewBox="0 0 24 24" fill="none" stroke="currentColor" stroke-width="2" stroke-linecap="round" stroke-linejoin="round"><circle cx="18" cy="5" r="3"/><circle cx="6" cy="12" r="3"/><circle cx="18" cy="19" r="3"/><path d="M8.6 13.5l6.8 4M15.4 6.5l-6.8 4"/></svg></button><a class="readmore" href="https://www.bloomberg.com/news/articles/2026-08-05/spacex-s-101-billion-unlock-heaps-pressure-on-battered-shares" target="_blank" rel="noopener noreferrer"><span class="arrow">↗</span>read more</a></div>
       </article>
@@ -221,7 +221,7 @@
         <div class="thumb g4-5"><span class="ph">Sample</span></div>
         <div class="hot-line">Must read</div>
         <h3>구마모토 지진 복구 지연, 사망 36명</h3>
-        <p class="desc">구마모토 지진 사망자가 36명으로 늘었고 6만9000여 가구는 여전히 단수 상태다. 신칸센 일부 구간은 8월 내 복구가 어려울 전망이다.</p>
+        <p class="desc">구마모토 지진 사망자가 36명으로 늘었고 6만9000여 가구는 여전히 단수 상태입니다. 신칸센 일부 구간은 8월 내 복구가 어려울 전망입니다.</p>
         <div class="interp"><span class="il">현지 한인에게</span><p>구마모토 방문 예정이라면 <b>교통·상수도</b> 상황을 미리 확인하세요.</p></div>
         <div class="m-bot"><span><span class="lb">Source</span>뉴시스</span><span><span class="lb">Read</span>3 min</span><button class="shr" type="button" aria-label="이 소식 공유하기" title="공유하기" onclick="nbShare(this)" data-h="구마모토 지진 복구 지연, 사망 36명"><svg viewBox="0 0 24 24" fill="none" stroke="currentColor" stroke-width="2" stroke-linecap="round" stroke-linejoin="round"><circle cx="18" cy="5" r="3"/><circle cx="6" cy="12" r="3"/><circle cx="18" cy="19" r="3"/><path d="M8.6 13.5l6.8 4M15.4 6.5l-6.8 4"/></svg></button><a class="readmore" href="https://www.newsis.com/view/NISX20260801_0003732767" target="_blank" rel="noopener noreferrer"><span class="arrow">↗</span>read more</a></div>
       </article>
@@ -230,7 +230,7 @@
         <div class="m-top"><span class="date">2026.08.06</span><span class="tag">여행 <em>TRAVEL</em></span></div>
         <div class="thumb g9-2"><span class="ph">Sample</span></div>
         <h3>스페인 공항 파업 확대, 200만명 영향</h3>
-        <p class="desc">바르셀로나·팔마 공항 지상직 파업이 무기한으로 확대됐다. 9월 말까지 최대 200만 명의 승객이 영향을 받을 수 있다.</p>
+        <p class="desc">바르셀로나·팔마 공항 지상직 파업이 무기한으로 확대됐습니다. 9월 말까지 최대 200만 명의 승객이 영향을 받을 수 있습니다.</p>
         <div class="interp"><span class="il">쉬운 해석 — 법률 해설가</span><p>스페인 여행 계획이 있다면 <b>항공편 변동</b> 여부를 수시로 확인하세요.</p></div>
         <div class="m-bot"><span><span class="lb">Source</span>AirHelp</span><span><span class="lb">Read</span>3 min</span><button class="shr" type="button" aria-label="이 소식 공유하기" title="공유하기" onclick="nbShare(this)" data-h="스페인 공항 파업 확대, 200만명 영향"><svg viewBox="0 0 24 24" fill="none" stroke="currentColor" stroke-width="2" stroke-linecap="round" stroke-linejoin="round"><circle cx="18" cy="5" r="3"/><circle cx="6" cy="12" r="3"/><circle cx="18" cy="19" r="3"/><path d="M8.6 13.5l6.8 4M15.4 6.5l-6.8 4"/></svg></button><a class="readmore" href="https://www.airhelp.com/en/flight-disruptions/spain-ground-handling-strikes-barcelona-palma-30072026/" target="_blank" rel="noopener noreferrer"><span class="arrow">↗</span>read more</a></div>
       </article>
@@ -239,7 +239,7 @@
         <div class="m-top"><span class="date">2026.08.06</span><span class="tag">여행 <em>TRAVEL</em></span></div>
         <div class="thumb g9-3"><span class="ph">Sample</span></div>
         <h3>태풍 9호 바비, 오키나와 10~11일 영향</h3>
-        <p class="desc">태풍 바비가 마리아나 제도를 통과해 서북서진 중이다. 10~11일에는 오키나와 지역에 높은 파도와 너울이 예상된다.</p>
+        <p class="desc">태풍 바비가 마리아나 제도를 통과해 서북서진 중입니다. 10~11일에는 오키나와 지역에 높은 파도와 너울이 예상됩니다.</p>
         <div class="interp"><span class="il">쉬운 해석 — 법률 해설가</span><p>오키나와 등 일본 남부 여행 예정이라면 <b>태풍 경로</b>를 계속 확인하세요.</p></div>
         <div class="m-bot"><span><span class="lb">Source</span>일본기상청 인용보도</span><span><span class="lb">Read</span>3 min</span><button class="shr" type="button" aria-label="이 소식 공유하기" title="공유하기" onclick="nbShare(this)" data-h="태풍 9호 바비, 오키나와 10~11일 영향"><svg viewBox="0 0 24 24" fill="none" stroke="currentColor" stroke-width="2" stroke-linecap="round" stroke-linejoin="round"><circle cx="18" cy="5" r="3"/><circle cx="6" cy="12" r="3"/><circle cx="18" cy="19" r="3"/><path d="M8.6 13.5l6.8 4M15.4 6.5l-6.8 4"/></svg></button><a class="readmore" href="https://www.lecturernews.com/news/articleView.html?idxno=205941" target="_blank" rel="noopener noreferrer"><span class="arrow">↗</span>read more</a></div>
       </article>

diff --git a/ops/daily-brief-SKILL.md b/ops/daily-brief-SKILL.md
@@ -91,9 +91,10 @@ for p in sorted(glob.glob('data/issue-*.json'))[-4:]:
 ### 2) 법률 해설가 역할
 각 뉴스마다:
 - `head`: 25자 내외 한글 카드 제목 (한 줄, 최대 두 줄)
-- `desc`: **2~3문장, 대략 55~90자**. 카드 크기를 균일하게 맞추기 위해 이 범위를 지키세요 — 너무 짧지도(허전) 길지도(잘림) 않게. 수치·시행일은 정확히.
-- `interp`: "쉬운 해석" **2문장 이내(대략 40~70자)**, 핵심어 1~2개를 `<b>…</b>` 로 강조. 실천 팁 포함.
-- 카드는 한 화면에 한 장씩 뜨므로 **길이를 고르게** 맞추는 게 중요합니다. 내용이 많아도 카드엔 핵심만, 자세한 건 원문(READ MORE)으로 넘깁니다.
+- **말투: 모든 문장을 존댓말(합니다체)로 통일하세요.** ⚠ 가장 중요. `desc`·`interp` 모두 기사체(**~했다·~된다·~한다·~이다·~밝혔다·~전망이다**)를 절대 쓰지 말고, 반드시 **~했습니다·~됩니다·~합니다·~입니다·~밝혔습니다·~전망입니다** 형태로 끝맺으세요. 한 카드 안 모든 문장이 존댓말이어야 합니다.
+- `desc`: **3~4문장, 대략 95~135자**. 무슨 일인지 + 핵심 수치·날짜 + 재외한인에게 왜 중요한지까지 담아 너무 허전하지 않게. 카드엔 4줄까지 보이고 나머지는 원문(READ MORE)으로 넘어가니 정보량을 충분히 담으세요.
+- `interp`: "쉬운 해석" **1~2문장(대략 55~90자)**, 핵심어 1~2개를 `<b>…</b>` 로 강조. 현지에서 지금 무엇을 하거나 확인해야 하는지 실천 팁 포함.
+- 카드 길이는 서로 **비슷하게** 맞추되(들쭉날쭉 방지), 위 글자 범위 안에서 내용을 충분히 담습니다.
 - 단정·과장 금지, 안내형 표현("확인하세요") 사용.
 - **한자·한문 약칭 금지.** 누구나 쉽게 읽어야 합니다. 신문식 한 글자 약칭(獨·美·檢·日·中·與·野·靑 등)을 절대 쓰지 말고 **평범한 한글 전체 단어**로 쓰세요 — 獨→독일, 美→미국, 檢→검찰, 日→일본, 中→중국, 與→여당, 野→야당, 靑→대통령실. `head·desc·interp·source` 어디에도 한자가 들어가면 안 됩니다.
 
